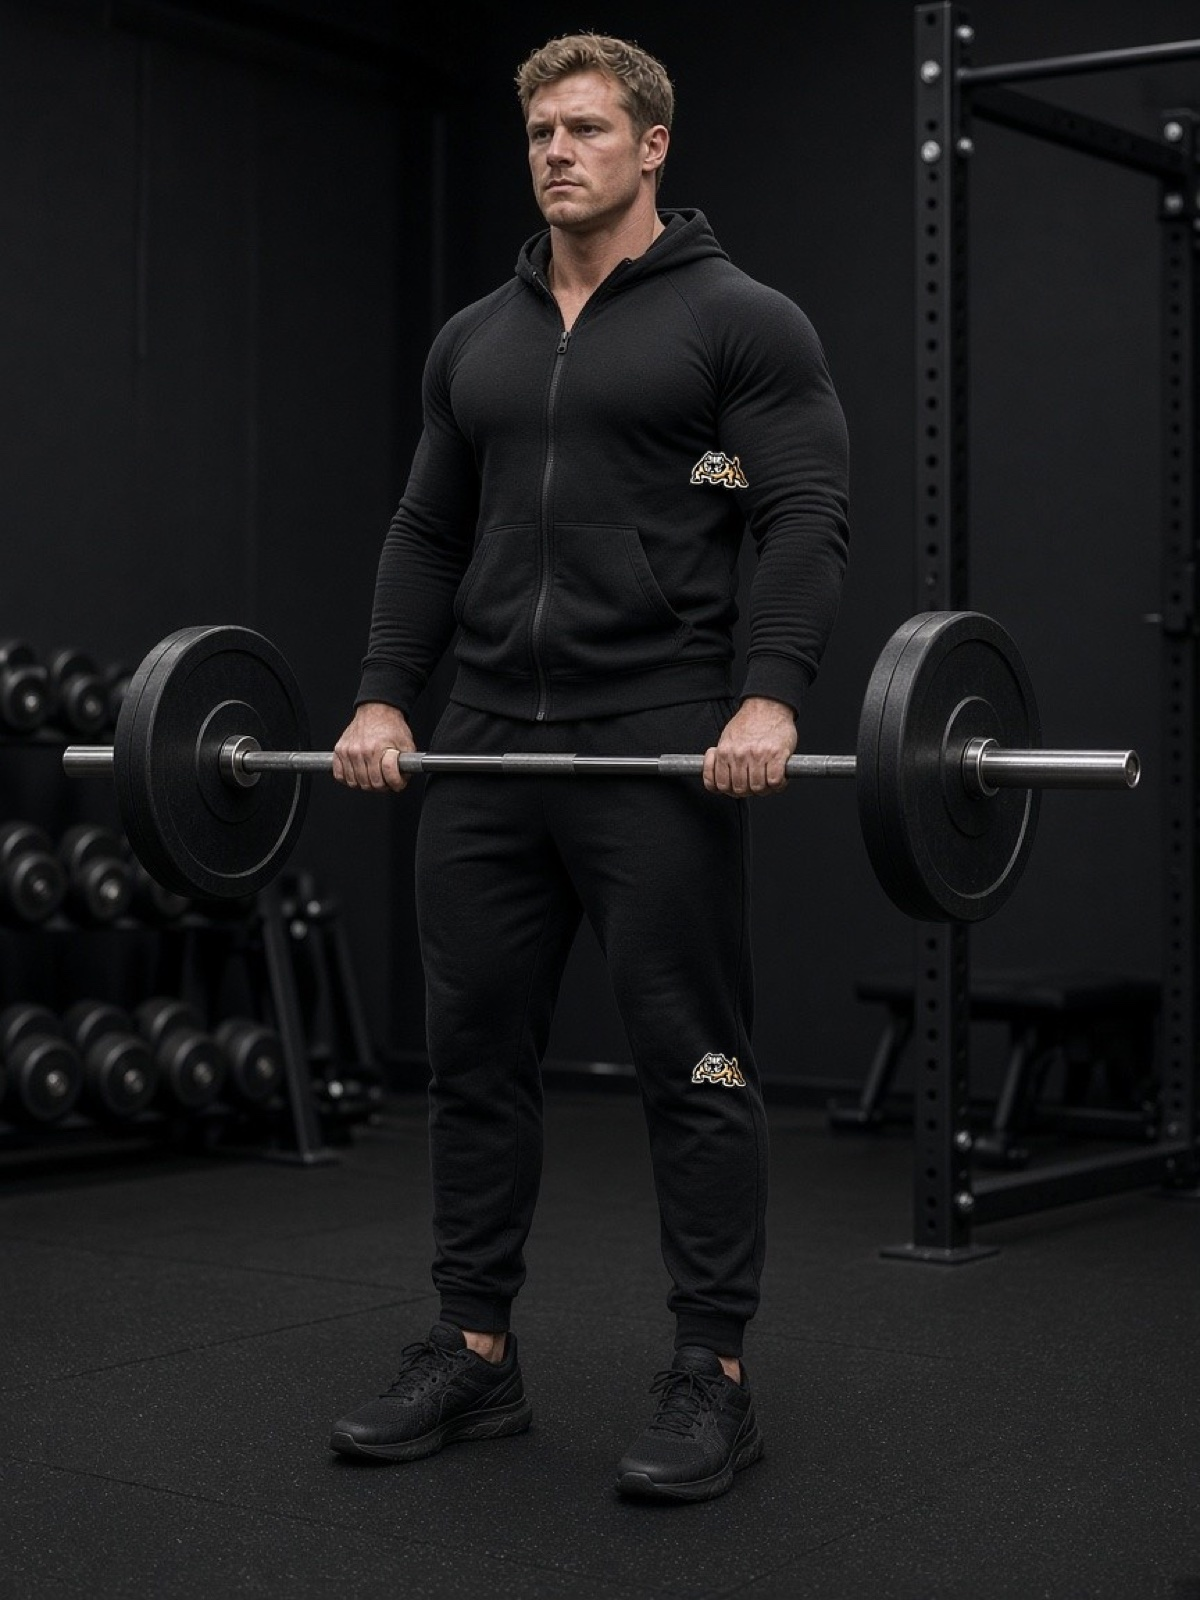
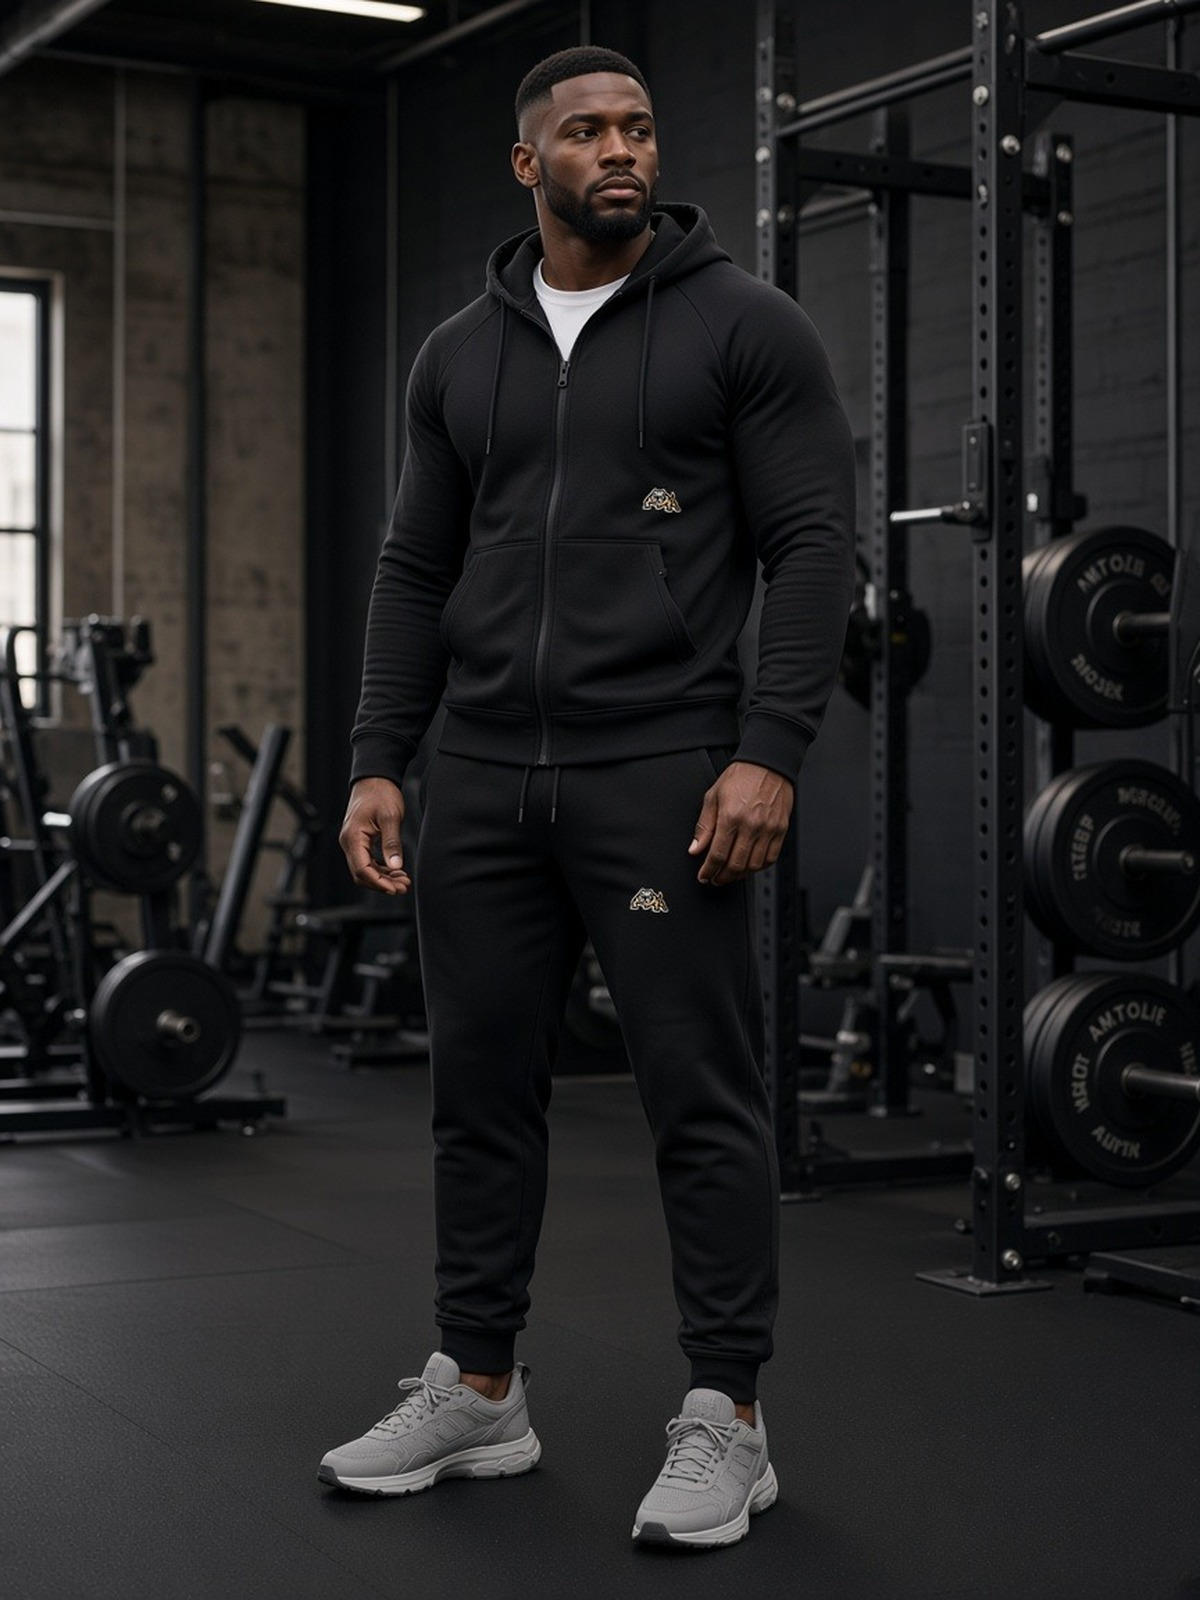
Replace Mark Zip weightlifting lookbook with standing shot.
Removes the white model deadlifting barbell from hero and black Mark Zip product media; swaps in a standing gym pose with the embroidered mark.

diff --git a/collections.html b/collections.html
@@ -8,8 +8,8 @@
   <link rel="preconnect" href="https://fonts.gstatic.com" crossorigin>
   <link rel="stylesheet" href="https://fonts.googleapis.com/css2?family=Outfit:wght@400;500;600;700&family=UnifrakturMaguntia&display=swap">
   <title>Collections — BVLLY</title>
-  <link rel="stylesheet" href="css/brand.css?v=20260924e">
-  <link rel="stylesheet" href="css/main.css?v=20260924e">
+  <link rel="stylesheet" href="css/brand.css?v=20261025a">
+  <link rel="stylesheet" href="css/main.css?v=20261025a">
 </head>
 <body data-page="collections">
   <header class="site-header" data-site-header></header>
@@ -31,8 +31,8 @@
 
   <footer class="site-footer" data-site-footer></footer>
 
-  <script src="js/site-config.js?v=20260924e"></script>
-  <script src="js/catalog.js?v=20260924e"></script>
-  <script src="js/layout.js?v=20260924e"></script>
+  <script src="js/site-config.js?v=20261025a"></script>
+  <script src="js/catalog.js?v=20261025a"></script>
+  <script src="js/layout.js?v=20261025a"></script>
 </body>
 </html>

diff --git a/404.html b/404.html
@@ -8,8 +8,8 @@
   <link rel="preconnect" href="https://fonts.gstatic.com" crossorigin>
   <link rel="stylesheet" href="https://fonts.googleapis.com/css2?family=Outfit:wght@400;500;600;700&family=UnifrakturMaguntia&display=swap">
   <title>Page not found — BVLLY</title>
-  <link rel="stylesheet" href="css/brand.css?v=20260924e">
-  <link rel="stylesheet" href="css/main.css?v=20260924e">
+  <link rel="stylesheet" href="css/brand.css?v=20261025a">
+  <link rel="stylesheet" href="css/main.css?v=20261025a">
 </head>
 <body data-page="404">
   <header class="site-header" data-site-header></header>
@@ -26,8 +26,8 @@
 
   <footer class="site-footer" data-site-footer></footer>
 
-  <script src="js/site-config.js?v=20260924e"></script>
-  <script src="js/catalog.js?v=20260924e"></script>
-  <script src="js/layout.js?v=20260924e"></script>
+  <script src="js/site-config.js?v=20261025a"></script>
+  <script src="js/catalog.js?v=20261025a"></script>
+  <script src="js/layout.js?v=20261025a"></script>
 </body>
 </html>

diff --git a/thanks.html b/thanks.html
@@ -8,8 +8,8 @@
   <link rel="preconnect" href="https://fonts.gstatic.com" crossorigin>
   <link rel="stylesheet" href="https://fonts.googleapis.com/css2?family=Outfit:wght@400;500;600;700&family=UnifrakturMaguntia&display=swap">
   <title>Thank you — BVLLY</title>
-  <link rel="stylesheet" href="css/brand.css?v=20260924e">
-  <link rel="stylesheet" href="css/main.css?v=20260924e">
+  <link rel="stylesheet" href="css/brand.css?v=20261025a">
+  <link rel="stylesheet" href="css/main.css?v=20261025a">
 </head>
 <body data-page="thanks">
   <header class="site-header" data-site-header></header>
@@ -24,8 +24,8 @@
 
   <footer class="site-footer" data-site-footer></footer>
 
-  <script src="js/site-config.js?v=20260924e"></script>
-  <script src="js/catalog.js?v=20260924e"></script>
-  <script src="js/layout.js?v=20260924e"></script>
+  <script src="js/site-config.js?v=20261025a"></script>
+  <script src="js/catalog.js?v=20261025a"></script>
+  <script src="js/layout.js?v=20261025a"></script>
 </body>
 </html>

diff --git a/contact.html b/contact.html
@@ -8,8 +8,8 @@
   <link rel="preconnect" href="https://fonts.gstatic.com" crossorigin>
   <link rel="stylesheet" href="https://fonts.googleapis.com/css2?family=Outfit:wght@400;500;600;700&family=UnifrakturMaguntia&display=swap">
   <title>Contact — BVLLY</title>
-  <link rel="stylesheet" href="css/brand.css?v=20260924e">
-  <link rel="stylesheet" href="css/main.css?v=20260924e">
+  <link rel="stylesheet" href="css/brand.css?v=20261025a">
+  <link rel="stylesheet" href="css/main.css?v=20261025a">
 </head>
 <body data-page="contact">
   <header class="site-header" data-site-header></header>
@@ -67,8 +67,8 @@
 
   <footer class="site-footer" data-site-footer></footer>
 
-  <script src="js/site-config.js?v=20260924e"></script>
-  <script src="js/catalog.js?v=20260924e"></script>
-  <script src="js/layout.js?v=20260924e"></script>
+  <script src="js/site-config.js?v=20261025a"></script>
+  <script src="js/catalog.js?v=20261025a"></script>
+  <script src="js/layout.js?v=20261025a"></script>
 </body>
 </html>

diff --git a/privacy.html b/privacy.html
@@ -8,8 +8,8 @@
   <link rel="preconnect" href="https://fonts.gstatic.com" crossorigin>
   <link rel="stylesheet" href="https://fonts.googleapis.com/css2?family=Outfit:wght@400;500;600;700&family=UnifrakturMaguntia&display=swap">
   <title>Privacy — BVLLY</title>
-  <link rel="stylesheet" href="css/brand.css?v=20260924e">
-  <link rel="stylesheet" href="css/main.css?v=20260924e">
+  <link rel="stylesheet" href="css/brand.css?v=20261025a">
+  <link rel="stylesheet" href="css/main.css?v=20261025a">
 </head>
 <body data-page="privacy">
   <header class="site-header" data-site-header></header>
@@ -29,8 +29,8 @@
 
   <footer class="site-footer" data-site-footer></footer>
 
-  <script src="js/site-config.js?v=20260924e"></script>
-  <script src="js/catalog.js?v=20260924e"></script>
-  <script src="js/layout.js?v=20260924e"></script>
+  <script src="js/site-config.js?v=20261025a"></script>
+  <script src="js/catalog.js?v=20261025a"></script>
+  <script src="js/layout.js?v=20261025a"></script>
 </body>
 </html>

diff --git a/product.html b/product.html
@@ -8,8 +8,8 @@
   <link rel="preconnect" href="https://fonts.gstatic.com" crossorigin>
   <link rel="stylesheet" href="https://fonts.googleapis.com/css2?family=Outfit:wght@400;500;600;700&family=UnifrakturMaguntia&display=swap">
   <title>Product — BVLLY</title>
-  <link rel="stylesheet" href="css/brand.css?v=20260924e">
-  <link rel="stylesheet" href="css/main.css?v=20260924e">
+  <link rel="stylesheet" href="css/brand.css?v=20261025a">
+  <link rel="stylesheet" href="css/main.css?v=20261025a">
 </head>
 <body data-page="product">
   <header class="site-header" data-site-header></header>
@@ -22,8 +22,8 @@
 
   <footer class="site-footer" data-site-footer></footer>
 
-  <script src="js/site-config.js?v=20260924e"></script>
-  <script src="js/catalog.js?v=20260924e"></script>
-  <script src="js/layout.js?v=20260924e"></script>
+  <script src="js/site-config.js?v=20261025a"></script>
+  <script src="js/catalog.js?v=20261025a"></script>
+  <script src="js/layout.js?v=20261025a"></script>
 </body>
 </html>

diff --git a/about.html b/about.html
@@ -8,8 +8,8 @@
   <link rel="preconnect" href="https://fonts.gstatic.com" crossorigin>
   <link rel="stylesheet" href="https://fonts.googleapis.com/css2?family=Outfit:wght@400;500;600;700&family=UnifrakturMaguntia&display=swap">
   <title>About — BVLLY</title>
-  <link rel="stylesheet" href="css/brand.css?v=20260924e">
-  <link rel="stylesheet" href="css/main.css?v=20260924e">
+  <link rel="stylesheet" href="css/brand.css?v=20261025a">
+  <link rel="stylesheet" href="css/main.css?v=20261025a">
 </head>
 <body data-page="about">
   <header class="site-header" data-site-header></header>
@@ -29,8 +29,8 @@
 
   <footer class="site-footer" data-site-footer></footer>
 
-  <script src="js/site-config.js?v=20260924e"></script>
-  <script src="js/catalog.js?v=20260924e"></script>
-  <script src="js/layout.js?v=20260924e"></script>
+  <script src="js/site-config.js?v=20261025a"></script>
+  <script src="js/catalog.js?v=20261025a"></script>
+  <script src="js/layout.js?v=20261025a"></script>
 </body>
 </html>

diff --git a/shop.html b/shop.html
@@ -8,8 +8,8 @@
   <link rel="preconnect" href="https://fonts.gstatic.com" crossorigin>
   <link rel="stylesheet" href="https://fonts.googleapis.com/css2?family=Outfit:wght@400;500;600;700&family=UnifrakturMaguntia&display=swap">
   <title>Shop — BVLLY</title>
-  <link rel="stylesheet" href="css/brand.css?v=20260924e">
-  <link rel="stylesheet" href="css/main.css?v=20260924e">
+  <link rel="stylesheet" href="css/brand.css?v=20261025a">
+  <link rel="stylesheet" href="css/main.css?v=20261025a">
 </head>
 <body data-page="shop">
   <header class="site-header" data-site-header></header>
@@ -32,8 +32,8 @@
 
   <footer class="site-footer" data-site-footer></footer>
 
-  <script src="js/site-config.js?v=20260924e"></script>
-  <script src="js/catalog.js?v=20260924e"></script>
-  <script src="js/layout.js?v=20260924e"></script>
+  <script src="js/site-config.js?v=20261025a"></script>
+  <script src="js/catalog.js?v=20261025a"></script>
+  <script src="js/layout.js?v=20261025a"></script>
 </body>
 </html>

diff --git a/index.html b/index.html
@@ -23,8 +23,8 @@
   <meta name="twitter:image" content="https://jimmythegod100.github.io/bvlly/images/og.jpg">
   <link rel="canonical" href="https://jimmythegod100.github.io/bvlly/">
   <link rel="icon" href="favicon.svg">
-  <link rel="stylesheet" href="css/brand.css?v=20260924e">
-  <link rel="stylesheet" href="css/main.css?v=20260924e">
+  <link rel="stylesheet" href="css/brand.css?v=20261025a">
+  <link rel="stylesheet" href="css/main.css?v=20261025a">
 </head>
 <body data-page="home">
   <header class="site-header" data-site-header></header>
@@ -87,8 +87,8 @@
 
   <footer class="site-footer" data-site-footer></footer>
 
-  <script src="js/site-config.js?v=20260924e"></script>
-  <script src="js/catalog.js?v=20260924e"></script>
-  <script src="js/layout.js?v=20260924e"></script>
+  <script src="js/site-config.js?v=20261025a"></script>
+  <script src="js/catalog.js?v=20261025a"></script>
+  <script src="js/layout.js?v=20261025a"></script>
 </body>
 </html>

diff --git a/js/site-config.js b/js/site-config.js
@@ -7,7 +7,7 @@
  */
 (function () {
   // Bump when lookbook JPGs change so browsers skip stale CDN/disk cache.
-  const ASSET_V = '20260924e';
+  const ASSET_V = '20261025a';
 
   const COLORWAYS = [
     { name: 'Pink', slug: 'pink', hex: '#e5b3c5' },
